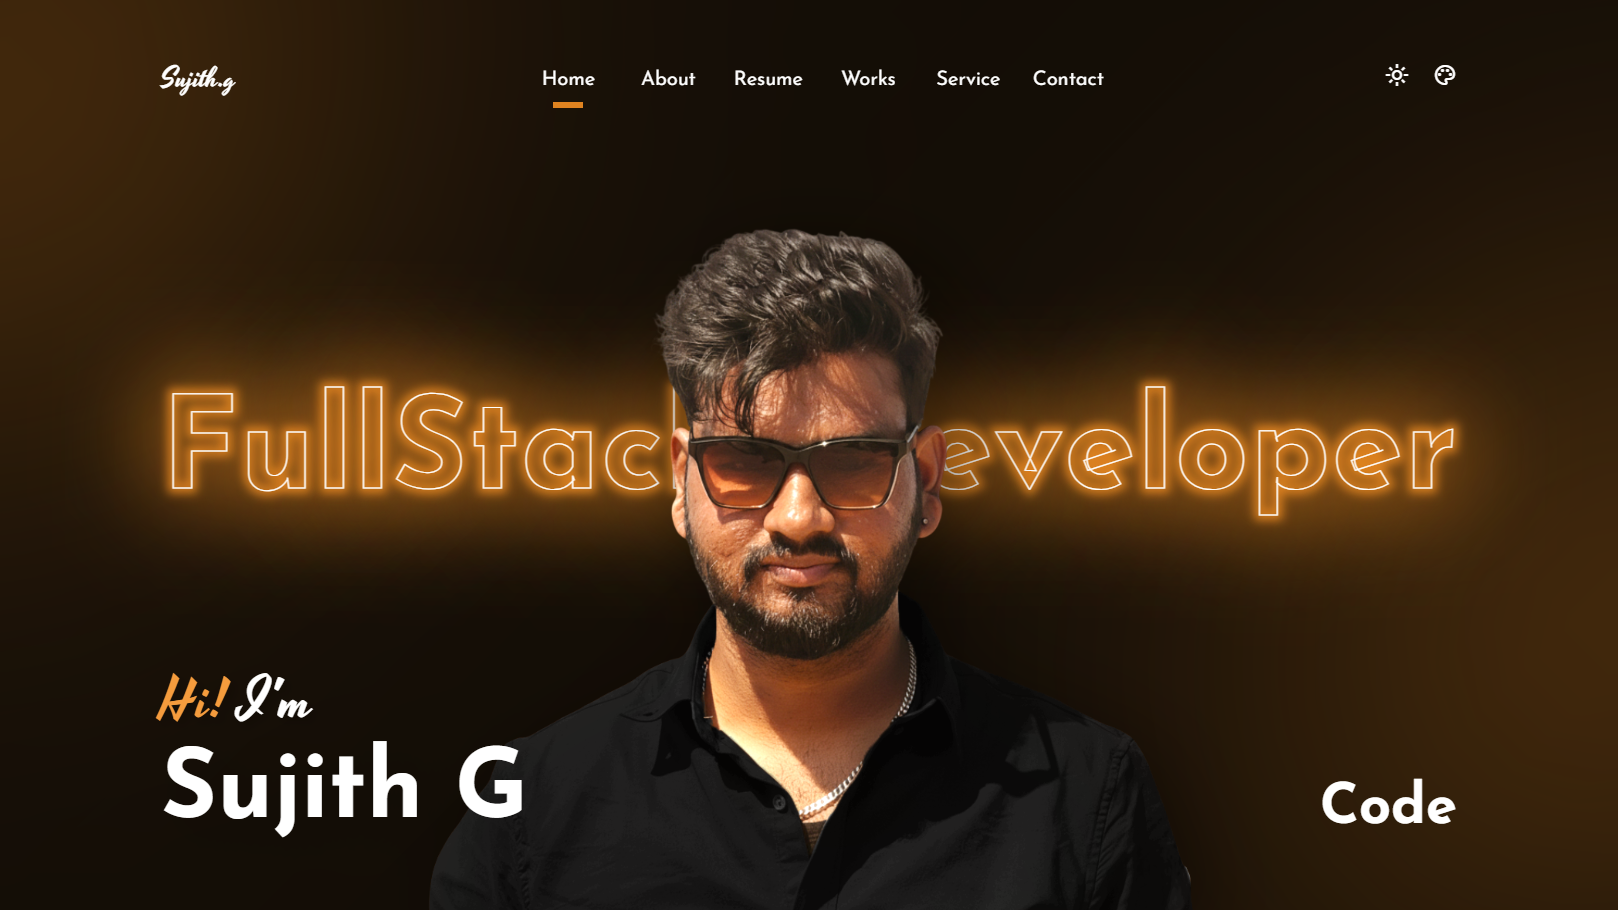
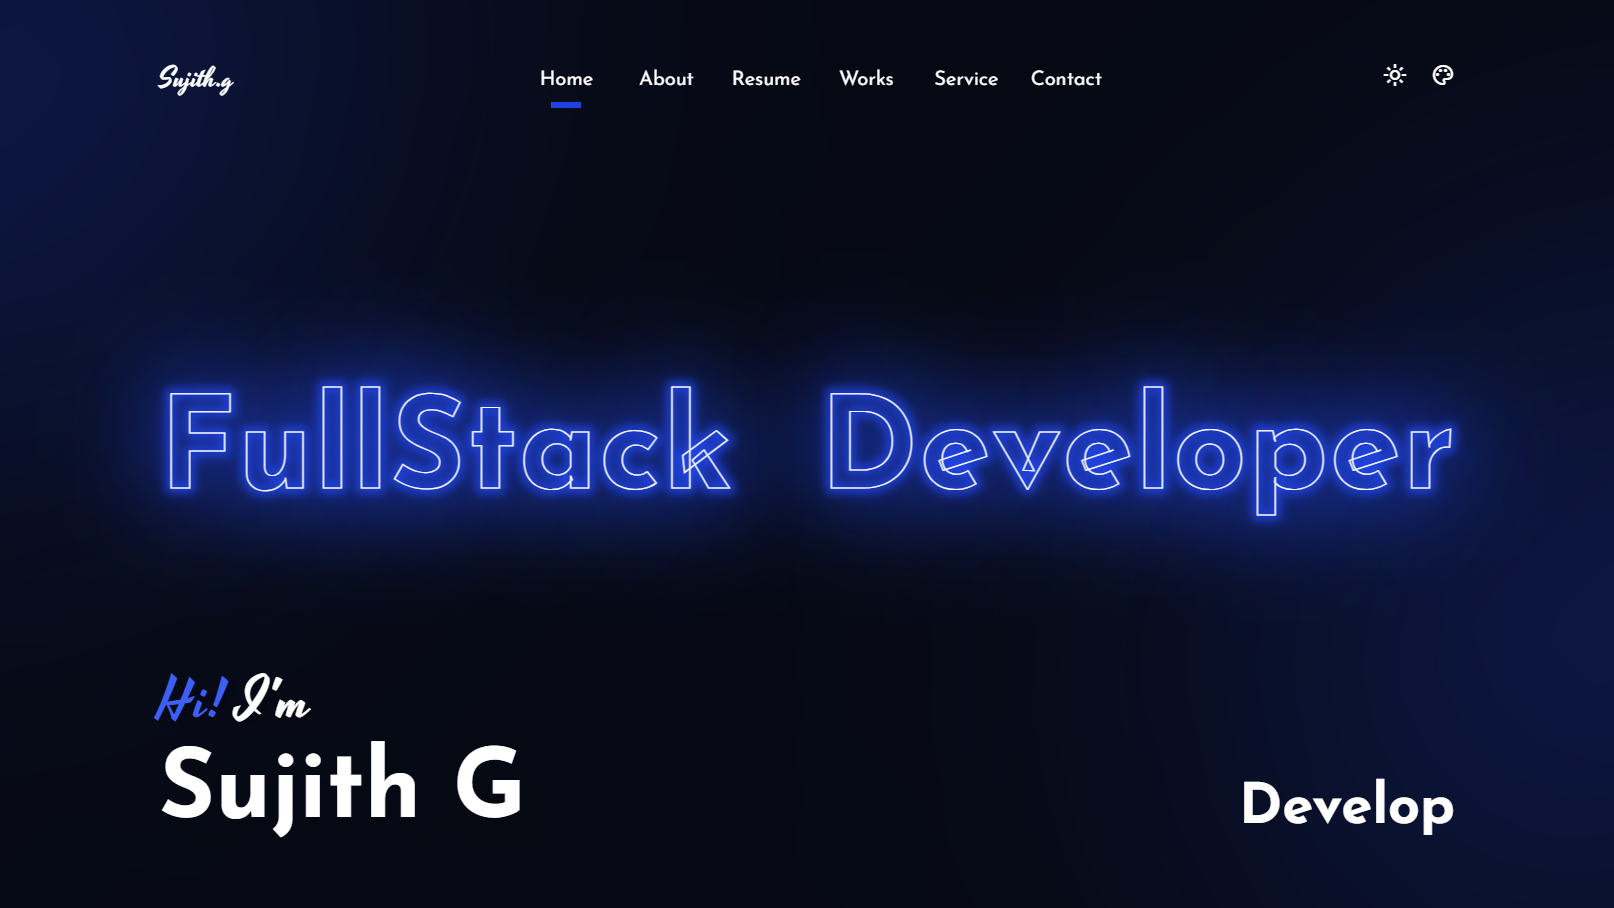
03/05/26 06:52 PM - Updated Works Section

diff --git a/index.html b/index.html
@@ -386,8 +386,11 @@
                 </div>
                 <div class="layout layout-works">
                     <div class="works-item" data-category="web">
-                        <img class="item-img" src="assets/images/works/personal-portfolio.png">
                         <span class="item-tag">Website</span>
+                        <img class="item-img" src="assets/images/works/personal-portfolio.png">
+                        <div class="item-links">
+                            <a class="item-link" href="https://github.com/sujithg-dev/sujith-g-portfolio" target="_blank">GitHub<span class="material-symbols-outlined link-icon">arrow_right_alt</span></a>
+                        </div>
                         <div class="item-content">
                             <h2 class="title">Personal Portfolio</h2>
                             <p class="description">A responsive portfolio website to showcase projects, skills, and experience.</p>
@@ -401,24 +404,6 @@
                                 <li class="list-item">Bootstrap</li>
                                 <li class="break"></li>
                                 <li class="list-item">Firebase</li>
-                            </ul>
-                        </div>
-                    </div>
-                    <div class="works-item" data-category="android">
-                        <span class="item-tag">Android App</span>
-                        <img class="item-img" src="assets/images/works/proclass.png">
-                        <div class="item-links">
-                            <a class="item-link" href="https://github.com/sujithg-dev/Online-Class-Monitoring-System" target="_blank">GitHub<span class="material-symbols-outlined link-icon">arrow_right_alt</span></a>
-                        </div>
-                        <div class="item-content">
-                            <h2 class="title">Pro Class</h2>
-                            <p class="description">An Android application to track student attendance and monitor activity during sessions.</p>
-                            <ul class="item-list">
-                                <li class="list-item">Java</li>
-                                <li class="break"></li>
-                                <li class="list-item">Firebase</li>
-                                <li class="break"></li>
-                                <li class="list-item">Android Studio</li>
                             </ul>
                         </div>
                     </div>
@@ -443,7 +428,7 @@
                         </div>
                     </div>
                     <div class="works-item" data-category="web">
-                        <img class="item-img" src="assets/images/works/personal-branding.jpeg">
+                        <img class="item-img" src="assets/images/works/personal-branding.png">
                         <span class="item-tag">Website</span>
                         <div class="item-links">
                             <a class="item-link" href="https://github.com/sujithg-dev/personal-branding-website" target="_blank">GitHub<span class="material-symbols-outlined link-icon">arrow_right_alt</span></a>
@@ -451,6 +436,26 @@
                         <div class="item-content">
                             <h2 class="title">Personal Branding</h2>
                             <p class="description">A personal branding website designed to highlight skills, projects, and professional identity.</p>
+                            <ul class="item-list">
+                                <li class="list-item">HTML</li>
+                                <li class="break"></li>
+                                <li class="list-item">CSS</li>
+                                <li class="break"></li>
+                                <li class="list-item">JavaScript</li>
+                                <li class="break"></li>
+                                <li class="list-item">Bootstrap</li>
+                            </ul>
+                        </div>
+                    </div>
+                    <div class="works-item" data-category="web">
+                        <span class="item-tag">Website</span>
+                        <img class="item-img" src="assets/images/works/product-sale.png">
+                        <div class="item-links">
+                            <a class="item-link" href="https://github.com/sujithg-dev/product-sale-website" target="_blank">GitHub<span class="material-symbols-outlined link-icon">arrow_right_alt</span></a>
+                        </div>
+                        <div class="item-content">
+                            <h2 class="title">Product Sale</h2>
+                            <p class="description">A product showcase website focused on improving conversions with clean design and layout.</p>
                             <ul class="item-list">
                                 <li class="list-item">HTML</li>
                                 <li class="break"></li>
@@ -482,23 +487,21 @@
                             </ul>
                         </div>
                     </div>
-                    <div class="works-item" data-category="web">
-                        <span class="item-tag">Website</span>
-                        <img class="item-img" src="assets/images/works/product-sale.jpeg">
+                    <div class="works-item" data-category="android">
+                        <span class="item-tag">Android App</span>
+                        <img class="item-img" src="assets/images/works/proclass.png">
                         <div class="item-links">
-                            <a class="item-link" href="javascript:void" target="_blank">GitHub<span class="material-symbols-outlined link-icon">arrow_right_alt</span></a>
+                            <a class="item-link" href="javascript:void(0)" target="_blank">GitHub<span class="material-symbols-outlined link-icon">arrow_right_alt</span></a>
                         </div>
                         <div class="item-content">
-                            <h2 class="title">Product Sale</h2>
-                            <p class="description">A product showcase website focused on improving conversions with clean design and layout.</p>
+                            <h2 class="title">Pro Class</h2>
+                            <p class="description">An Android application to track student attendance and monitor activity during sessions.</p>
                             <ul class="item-list">
-                                <li class="list-item">HTML</li>
+                                <li class="list-item">Java</li>
                                 <li class="break"></li>
-                                <li class="list-item">CSS</li>
+                                <li class="list-item">Firebase</li>
                                 <li class="break"></li>
-                                <li class="list-item">JavaScript</li>
-                                <li class="break"></li>
-                                <li class="list-item">Bootstrap</li>
+                                <li class="list-item">Android Studio</li>
                             </ul>
                         </div>
                     </div>
